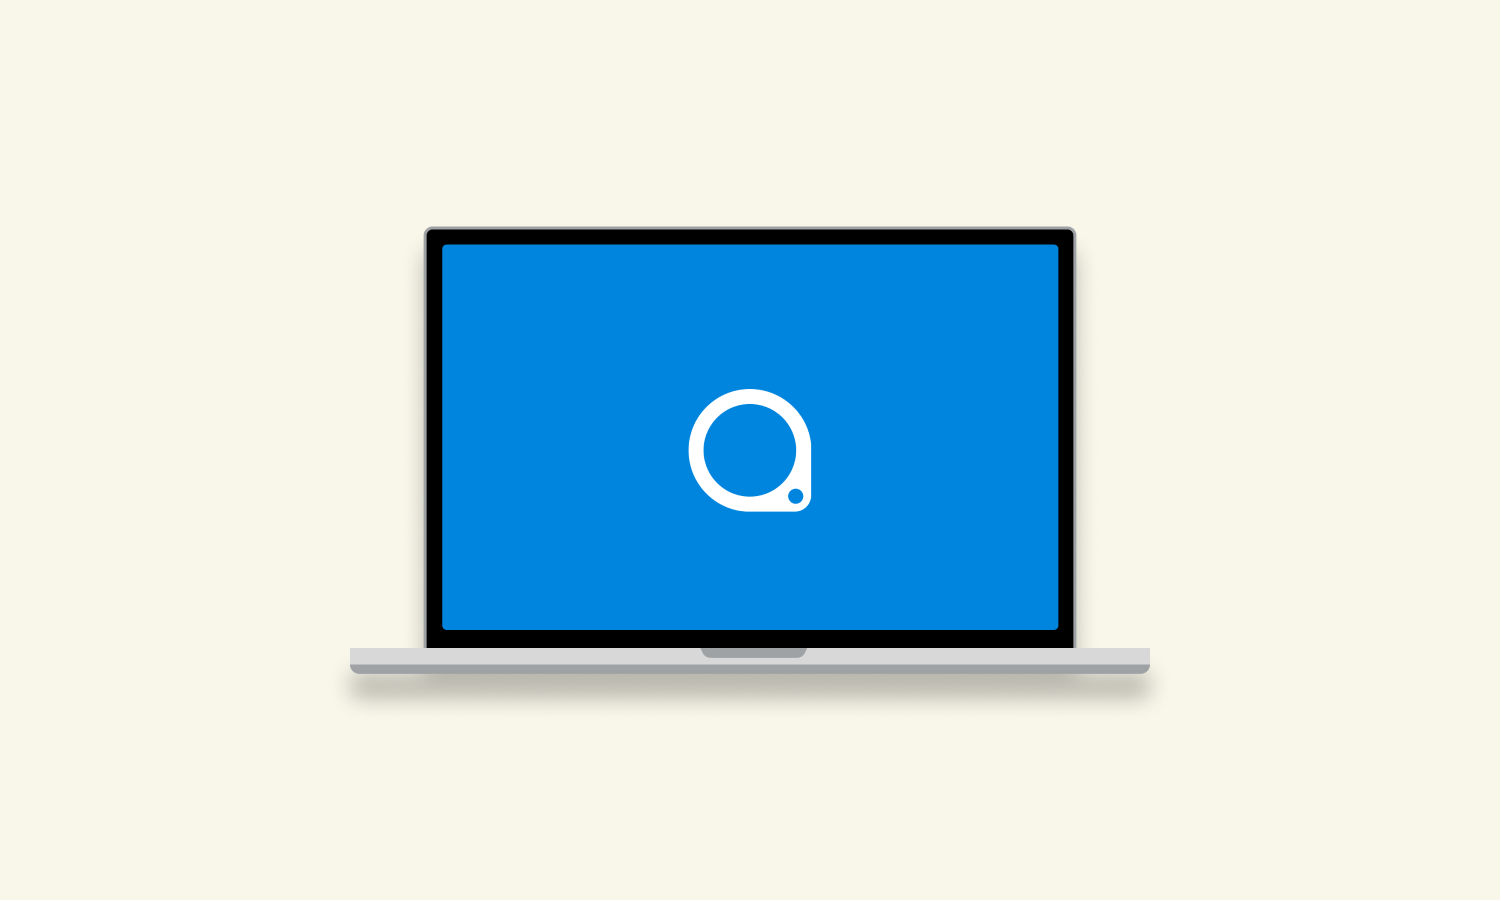
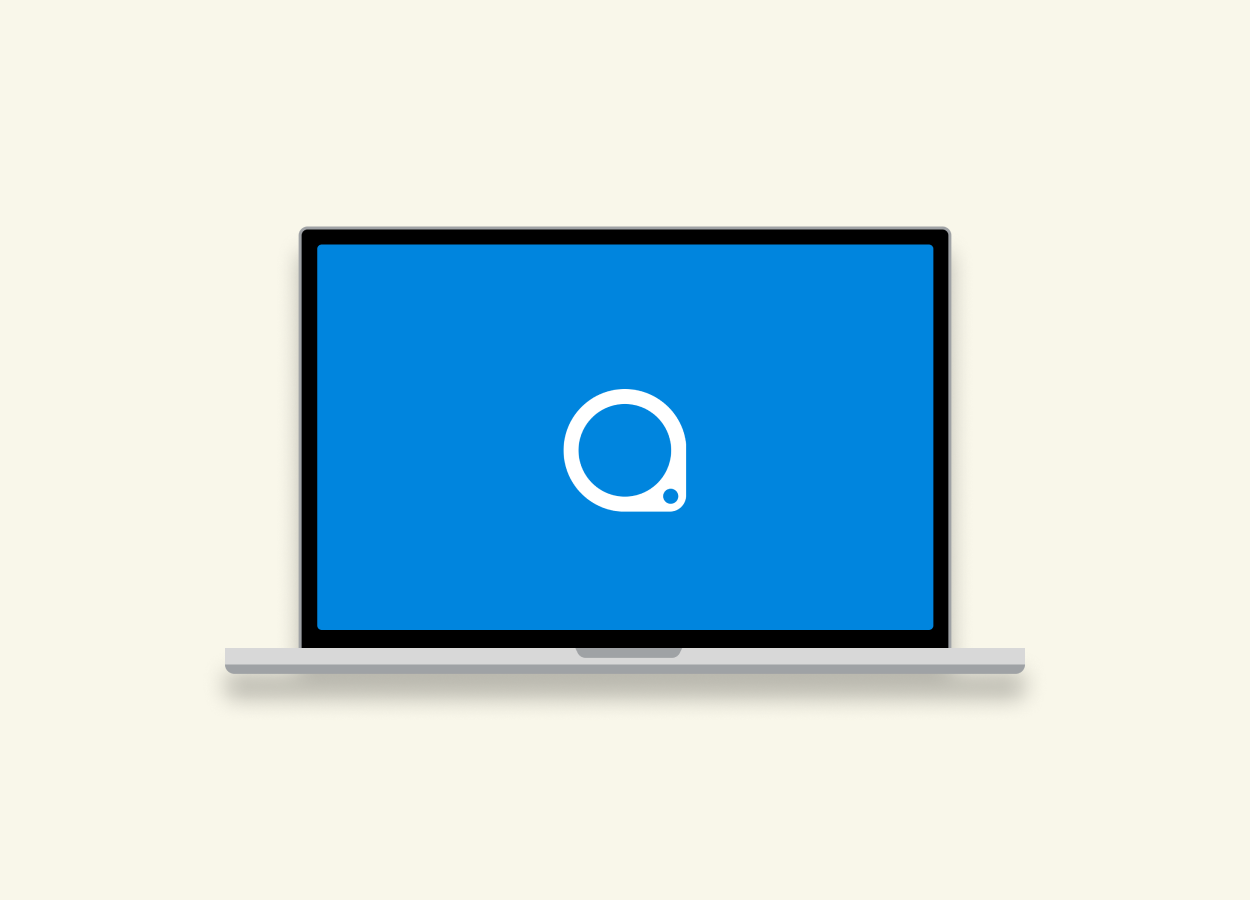
bruhbruhbruh

Changed region(s): [[0.6859, 0.2486, 0.8417, 0.7769], [0.1559, 0.2486, 0.3118, 0.7769], [0.4365, 0.4351, 0.5612, 0.5594]]

diff --git a/index.html b/index.html
@@ -41,23 +41,23 @@
               University of Waterloo</a></span>.
             Most recently, I was designing at <span class="hovertext1"><a href="https://plangrid.design">
             PlanGrid (Autodesk)</a></span> in San Francisco.
-            This summer I'll be heading to Chicago to intern at <span class="hovertext1"><a href="http://grandstudio.com">Grand Studio</a></span>.</div></h1><br>
+            This summer I'll be heading to Chicago for an internship at <span class="hovertext1"><a href="http://grandstudio.com">Grand Studio</a></span>.</div></h1><br>
         </div><br>
     <!-- <hr style="height:1px;border:none;color:#FFF;background-color:#FFF;"> -->
     <div class="portfolio" id="work">
       <div class="aboot"><b>SELECTED WORK</b> ↴</div>
       <h1><div><span class="hovertext"><a href="plangrid.html">PlanGrid (Autodesk) →
         <div class="aboot">Configuring the tracking of construction</div></a>
-        </span><img style="width: 650px; height: 390px; will-change: opacity, transform;"
+        </span><img style="width: 556px; height: 390px; will-change: opacity, transform;"
         class="hoverimage" src="images/Frame-1.png"/>
       </div></h1>
         <h1><div><span class="hovertext"><a href="literatura.html">literatura app →
         <div class="aboot">Promoting the study of literature</div></a> 
-        </span><img style="width: 650px; height: 390px; will-change: opacity, transform;"
+        </span><img style="width: 556px; height: 390px; will-change: opacity, transform;"
         class="hoverimage" src="images/Frame.png"/></div></h1>
         <h1><div><span class="hovertext"><a href="waterloop.html">Waterloo Hyperloop →
         <div class="aboot">Designing and rebranding "Canada's Hyperloop"</div></a>
-        </span><img style="width: 650px; height: 390px; will-change: opacity, transform;"
+        </span><img style="width: 556px; height: 390px; will-change: opacity, transform;"
         class="hoverimage" src="images/Frame-2.png"/></div></h1><br><br><br>
         <footer class="footer">
           <ul>
